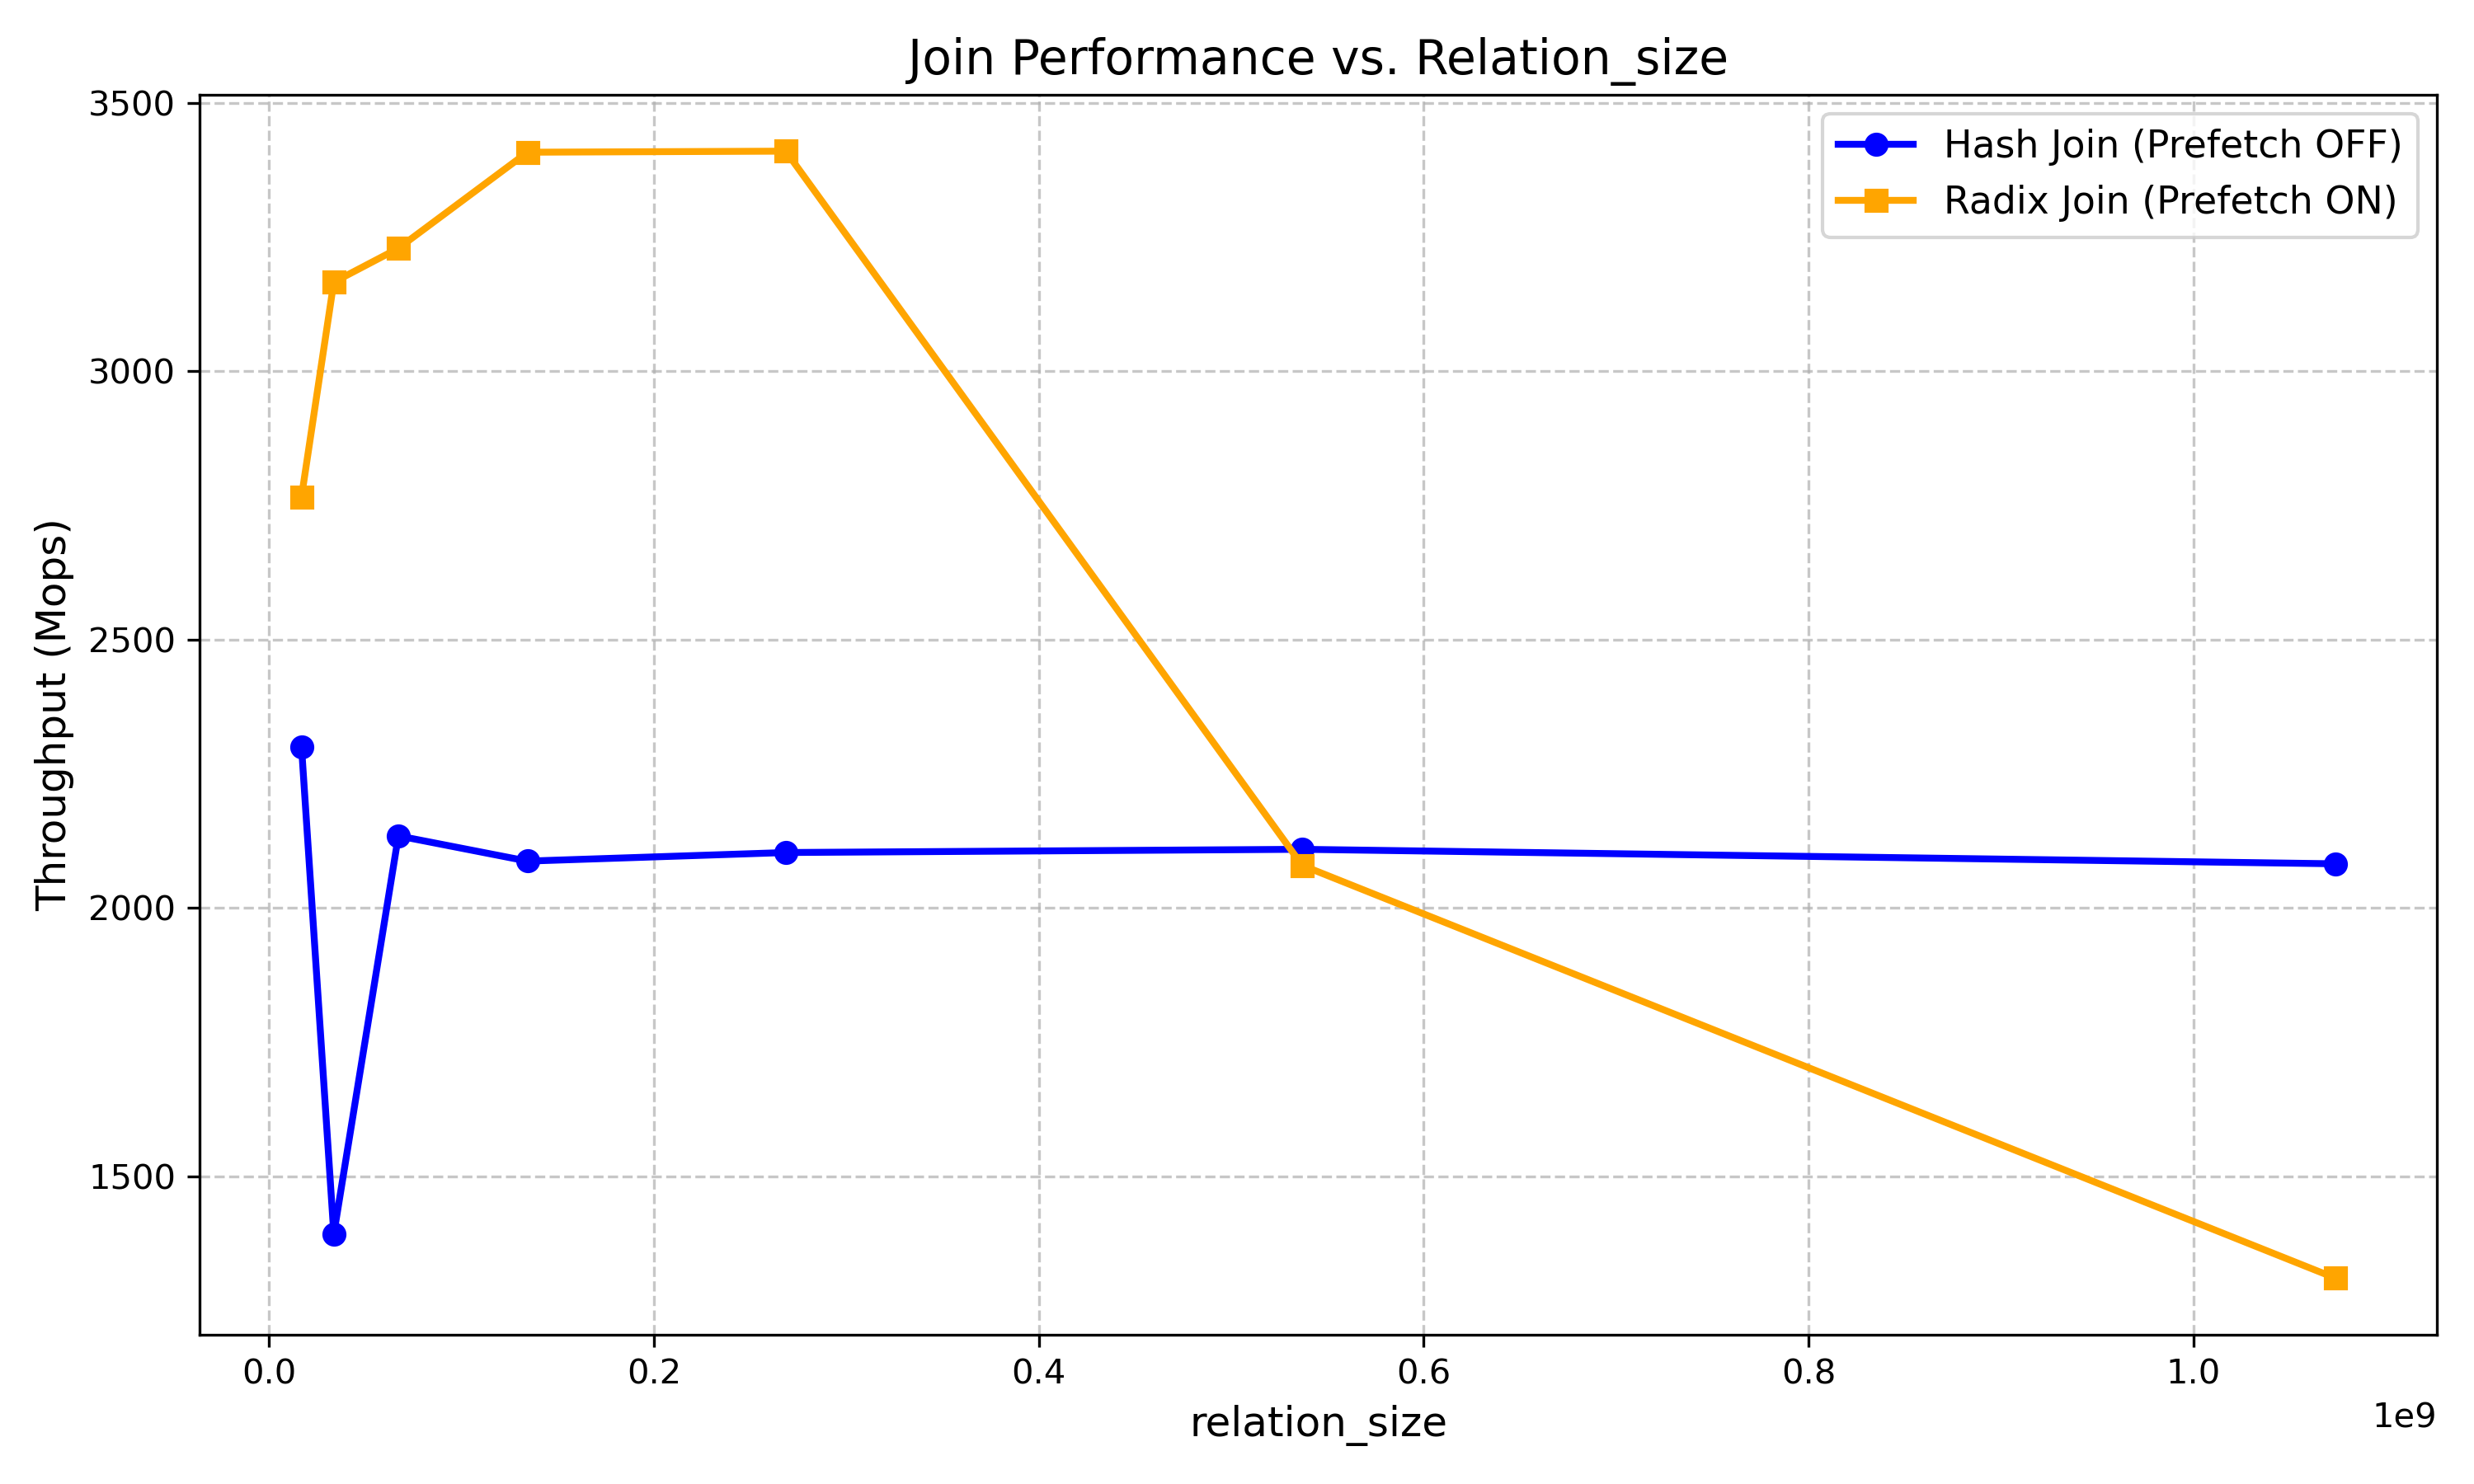
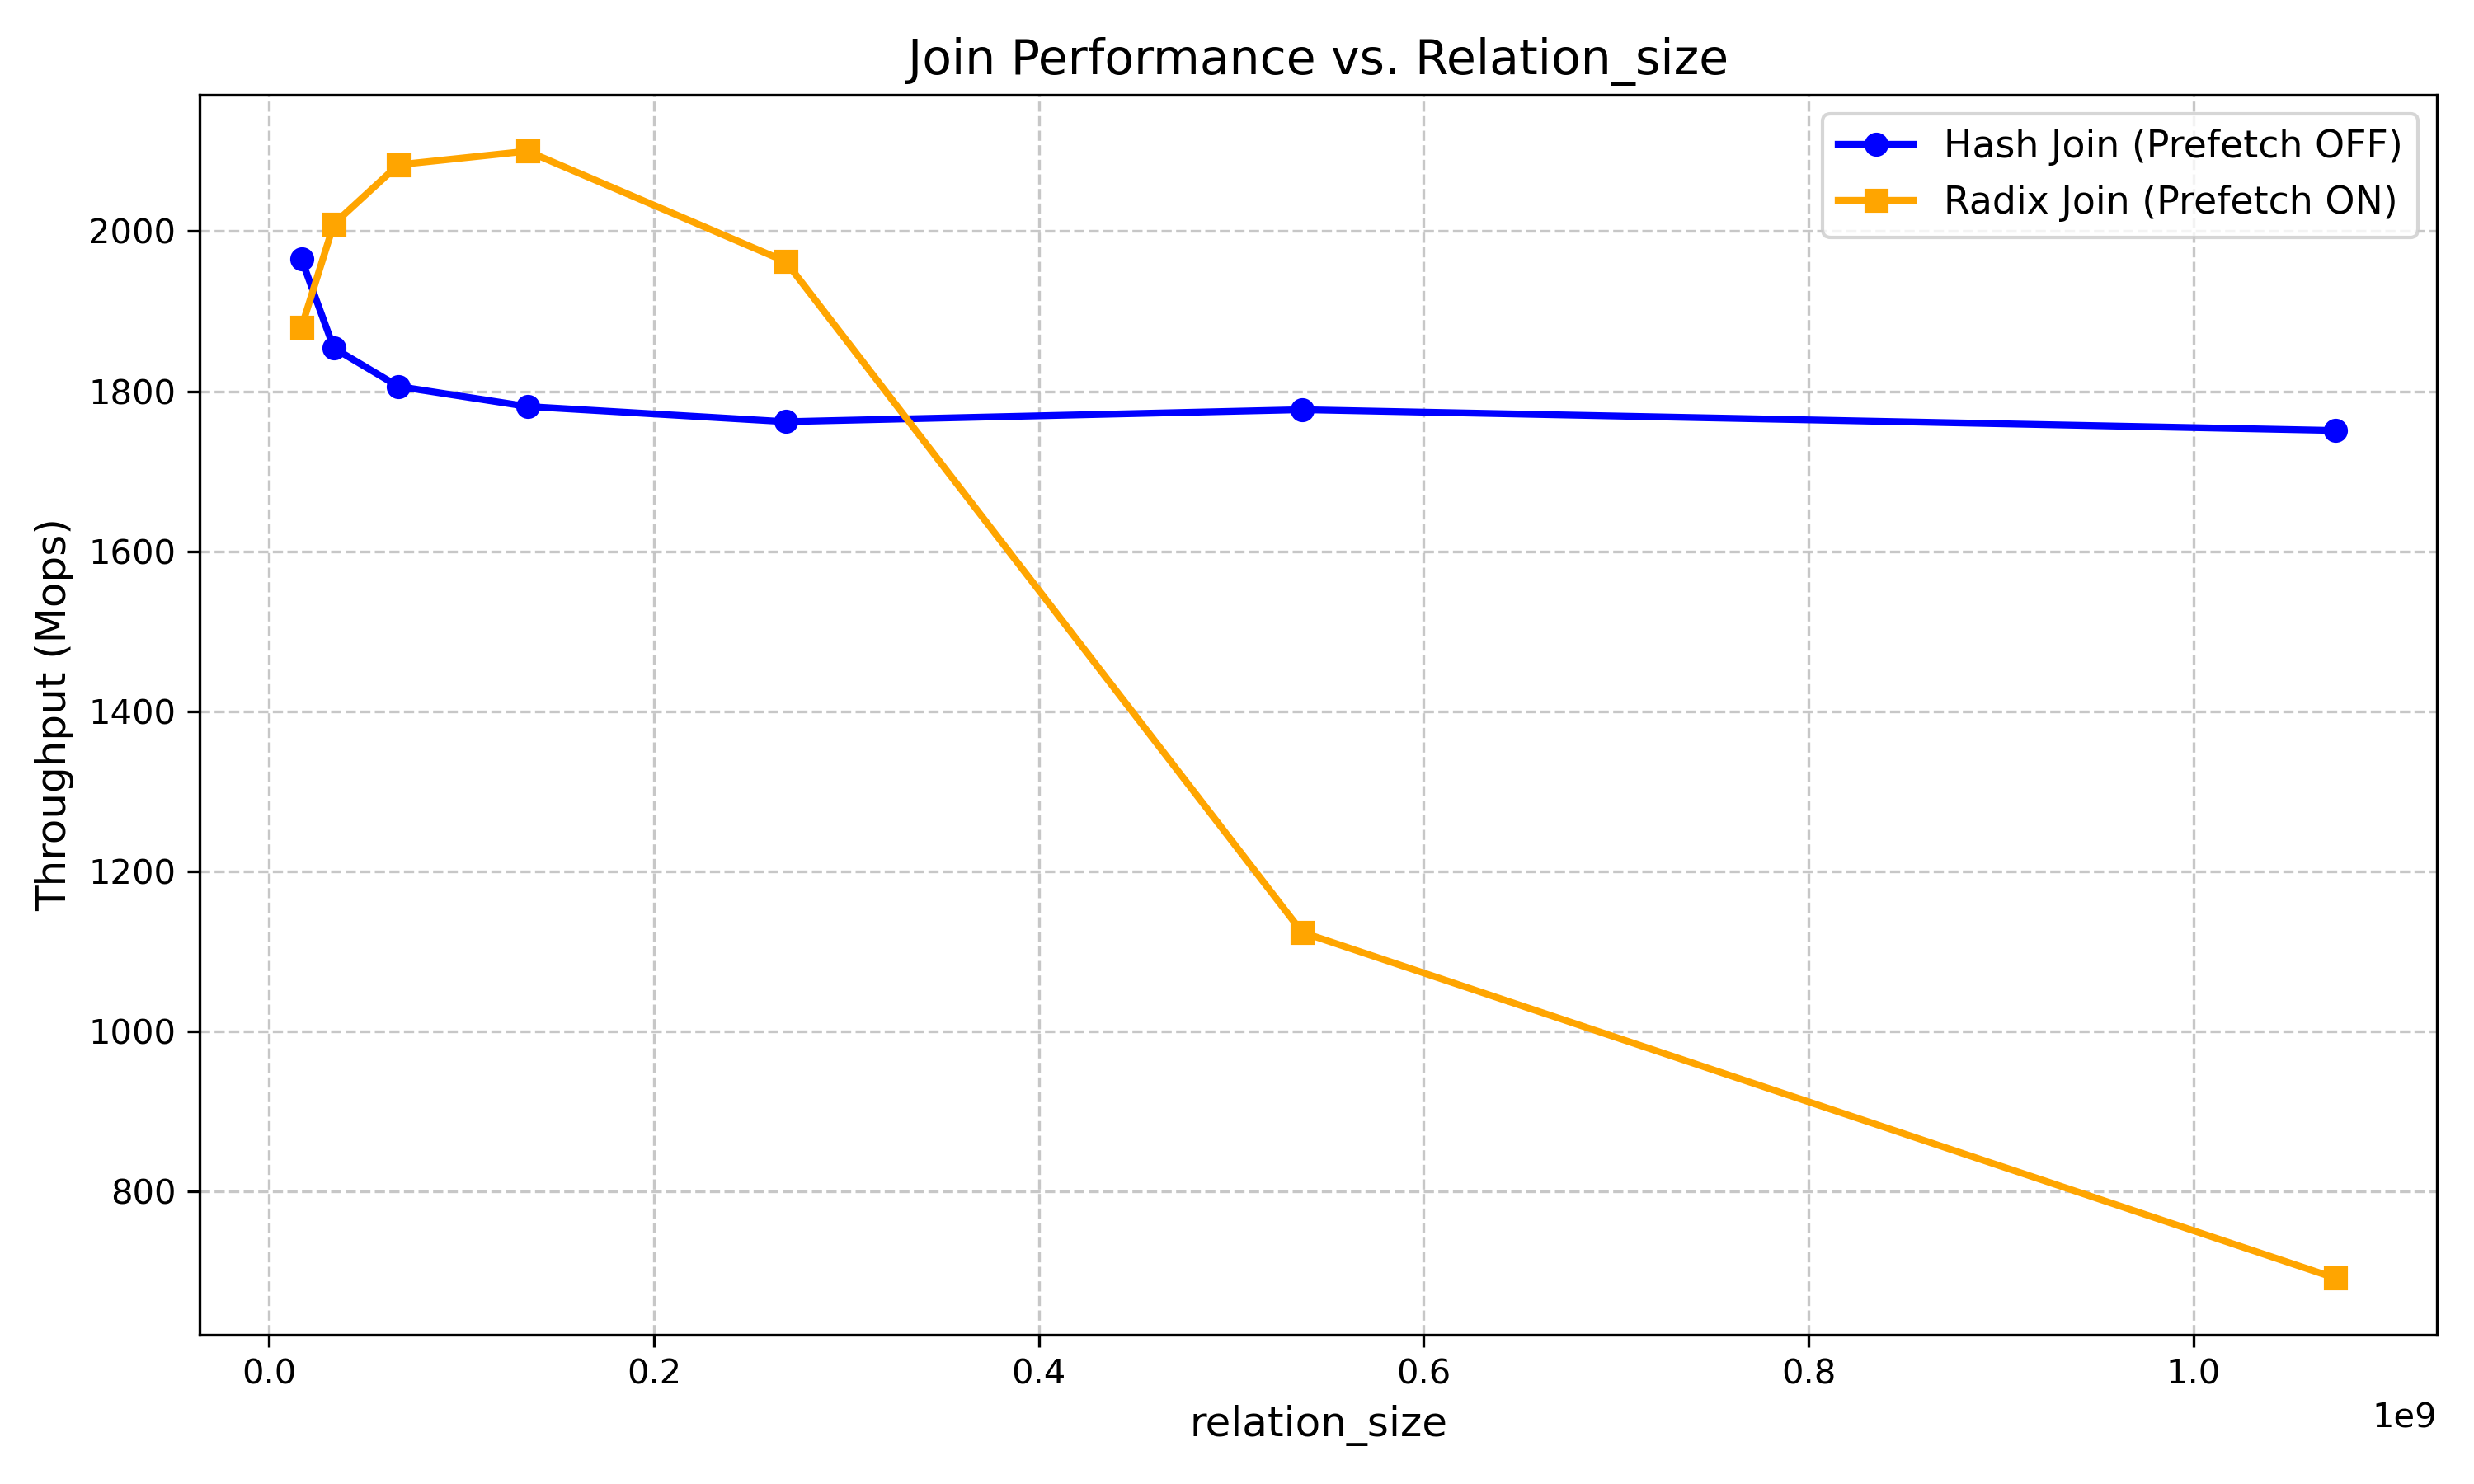
hashjoin data

diff --git a/scripts/eurosys_2026/collect_radix/collect_join_amd.py b/scripts/eurosys_2026/collect_radix/collect_join_amd.py
@@ -6,20 +6,28 @@ from unittest.loader import defaultTestLoader
 
 import matplotlib.pyplot as plt
 
-THREAD_NUM = 64
-L1_BYTES = int(1 * 1024 * 1024 / THREAD_NUM)
-L2_BYTES = 1 * 1024 * 1024
-L3_BYTES = int(256 * 1024 * 1024 / THREAD_NUM)
+L2_BYTES = 512 * 1024  # 0.5mb per hyperthread
+
+# single
+num_threads = 64
+numa = 4
+numa_name = "amd_single"
 
 
 # the goal here is reduce keep radix high enough to make each paritition size fit into l2
 # while keep radix low enough parition runtime doesn't blow up because partition must maintin
 # 2^radix amount of cachelines.
-def get_optimal_radix(build_sz):
-    radix = max(6, math.ceil(math.log(build_sz * 16 / L2_BYTES, 2)))
+def get_optimal_radix(build_sz, ht_fill):
 
-    if pow(2, radix) * 64 > L2_BYTES:
-        print("input size is too big, partition runtime must spill out")
+    # fit into l2.
+    optimal_join_size = L2_BYTES * ht_fill / 100
+    radix = max(6, math.ceil(math.log(build_sz * 16 / optimal_join_size, 2)))
+
+    # if build size is too large, then give a warning for partition.
+    if pow(2, radix) * 64 >= L2_BYTES:
+        print(
+            f"input size is too big, partition runtime will go up, build_sz {build_sz / (1024 * 1024)} MB radix {radix}"
+        )
 
     return radix
 
@@ -30,10 +38,10 @@ one_gb = int(1024 * 1024 * 1024 / 16)
 # CONFIGURATION
 # =============================================================================
 
+default_build_sz = one_gb
 # 1. Define the parameter to vary (X-axis)
 PARAM_NAME = "skew"
 PARAM_VALUES = [round(0.1 + i * 0.1, 1) for i in range(12)]
-default_build_sz = one_gb
 
 # --- Examples for exploring other directions ---
 
@@ -49,16 +57,6 @@ default_build_sz = one_gb
 #     16 * one_gb,
 # ]
 
-# PARAM_NAME = "relation_s_size"
-# default_build_sz = 256 * one_mb
-# PARAM_VALUES = [
-#     default_build_sz,  # ht fill 50%, 2x, 0.5 gb
-#     3 * default_build_sz,  # ht fill 25%, 4x, 1 gb
-#     7 * default_build_sz,  # ht fill 13%, 8x, 2gb
-#     15 * default_build_sz,  # ht fill 7%, 16x, 4gb
-#     31 * default_build_sz,  # ht fill 4%, 32x, 8gb
-#     63 * default_build_sz,  # ht fill 2%, 64x, 16gb
-# ]
 
 # Paths to the executables
 PREFETCH_SCRIPT = "/opt/DRAMHiT/scripts/prefetch_control_amd.sh"
@@ -71,8 +69,8 @@ HASH_JOIN_DEFAULTS = {
     "relation_r_size": default_build_sz,
     "relation_s_size": 15 * default_build_sz,
     "find_queue": 64,
-    "num-threads": 64,
-    "numa-split": 4,
+    "num-threads": num_threads,
+    "numa-split": numa,
     "no-prefetch": 0,
     "mode": 13,
     "batch-len": 16,
@@ -87,8 +85,8 @@ RADIX_JOIN_DEFAULTS = {
     "ht-fill": 50,
     "relation_r_size": default_build_sz,
     "relation_s_size": 15 * default_build_sz,
-    "num-threads": 64,
-    "numa-split": 4,
+    "num-threads": num_threads,
+    "numa-split": numa,
     "mode": 16,
     "skew": 0.01,
     "seed": 1774551337382868027,
@@ -114,19 +112,20 @@ def build_command(defaults_dict, param_name, param_value):
     if param_name == "relation_size":
         args["relation_r_size"] = param_value
         args["relation_s_size"] = param_value
-        args["radix"] = get_optimal_radix(args["relation_r_size"])
-    elif param_name == "relation_s_size":
-        args["relation_r_size"] = default_build_sz
-        args["relation_s_size"] = param_value
-        target_size = param_value + default_build_sz
-        ht_fill = math.ceil((default_build_sz * 100) / target_size)
-        args["ht-fill"] = ht_fill
-        args["radix"] = get_optimal_radix(args["relation_r_size"])
     else:
         args[param_name] = param_value  # Override the specific parameter being tested
-        args["radix"] = get_optimal_radix(args["relation_r_size"])
+
+    if args["mode"] == 13:
+        # hash join can use same space as used by radix join
+        build_sz = args["relation_r_size"]
+        probe_sz = args["relation_s_size"]
+        ht_fill = math.ceil((build_sz * 100) / (build_sz + probe_sz))
+        args["ht-fill"] = ht_fill
+    else:
+        args["radix"] = get_optimal_radix(args["relation_r_size"], args["ht-fill"])
 
     cmd = [DRAMHIT_EXEC]
+
     for key, val in args.items():
         cmd.extend([f"--{key}", str(val)])
     return cmd
@@ -160,6 +159,15 @@ def run_and_parse(cmd):
 def main():
     print(f"Starting Benchmark. Varying '--{PARAM_NAME}' across: {PARAM_VALUES}\n")
 
+    subprocess.run(
+        "cmake -S /opt/DRAMHiT/ -B /opt/DRAMHiT/build "
+        "-DDRAMHiT_VARIANT=2025_INLINE -DBUCKETIZATION=ON -DBRANCH=simd -DPREFETCH=DOUBLE -DUNIFORM_PROBING=ON "
+        "-DGROWT=ON",
+        shell=True,
+        check=True,
+    )
+    subprocess.run("cmake --build /opt/DRAMHiT/build", shell=True, check=True)
+
     results = {
         "param_name": PARAM_NAME,
         "param_values": PARAM_VALUES,
@@ -187,7 +195,7 @@ def main():
     # =========================================================================
     # SAVE DATA TO JSON
     # =========================================================================
-    json_filename = f"benchmark_results_{PARAM_NAME}.json"
+    json_filename = f"{numa_name}_{PARAM_NAME}.json"
     with open(json_filename, "w") as f:
         json.dump(results, f, indent=4)
     print(f"[*] Data saved to {json_filename}")
@@ -224,7 +232,7 @@ def main():
     plt.tight_layout()
 
     # Save to PNG
-    png_filename = f"benchmark_plot_{PARAM_NAME}.png"
+    png_filename = f"{numa_name}_{PARAM_NAME}.png"
     plt.savefig(png_filename, dpi=300)
     print(f"[*] Plot saved to {png_filename}")
 

diff --git a/scripts/eurosys_2026/collect_radix/collect_join_intel.py b/scripts/eurosys_2026/collect_radix/collect_join_intel.py
@@ -10,21 +10,20 @@ L2_BYTES = 1 * 1024 * 1024  # 1mb per hyperthread
 
 
 # single
-# num_threads = 64
-# numa = 4
-# numa_name = "intel_dual"
+num_threads = 64
+numa = 4
+numa_name = "intel_single"
 
 # dual socket
-num_threads = 128
-numa = 1
-numa_name = "intel_single"
+# num_threads = 128
+# numa = 1
+# numa_name = "intel_dual"
 
 
 # the goal here is reduce keep radix high enough to make each paritition size fit into l2
 # while keep radix low enough parition runtime doesn't blow up because partition must maintin
 # 2^radix amount of cachelines.
 def get_optimal_radix(build_sz, ht_fill):
-
     # fit into l2.
     optimal_join_size = L2_BYTES * ht_fill / 100
     radix = max(6, math.ceil(math.log(build_sz * 16 / optimal_join_size, 2)))
@@ -32,7 +31,7 @@ def get_optimal_radix(build_sz, ht_fill):
     # if build size is too large, then give a warning for partition.
     if pow(2, radix) * 64 >= L2_BYTES:
         print(
-            f"input size is too big, partition runtime must spill out, build_sz {build_sz / (1024 * 1024)} MB radix {radix}"
+            f"input size is too big, partition runtime will go up, build_sz {build_sz / (1024 * 1024)} MB radix {radix}"
         )
 
     return radix
@@ -49,8 +48,6 @@ default_build_sz = one_gb
 # PARAM_NAME = "skew"
 # PARAM_VALUES = [round(0.1 + i * 0.1, 1) for i in range(12)]
 
-# --- Examples for exploring other directions ---
-
 
 PARAM_NAME = "relation_size"
 PARAM_VALUES = [
@@ -62,17 +59,6 @@ PARAM_VALUES = [
     8 * one_gb,
     16 * one_gb,
 ]
-
-# PARAM_NAME = "relation_s_size"
-# default_build_sz = 256 * one_mb
-# PARAM_VALUES = [
-#     default_build_sz,  # ht fill 50%, 2x, 0.5 gb
-#     3 * default_build_sz,  # ht fill 25%, 4x, 1 gb
-#     7 * default_build_sz,  # ht fill 13%, 8x, 2gb
-#     15 * default_build_sz,  # ht fill 7%, 16x, 4gb
-#     31 * default_build_sz,  # ht fill 4%, 32x, 8gb
-#     63 * default_build_sz,  # ht fill 2%, 64x, 16gb
-# ]
 
 # Paths to the executables
 PREFETCH_SCRIPT = "/opt/DRAMHiT/scripts/prefetch_control.sh"
@@ -174,6 +160,15 @@ def run_and_parse(cmd):
 
 def main():
     print(f"Starting Benchmark. Varying '--{PARAM_NAME}' across: {PARAM_VALUES}\n")
+
+    subprocess.run(
+        "cmake -S /opt/DRAMHiT/ -B /opt/DRAMHiT/build "
+        "-DDRAMHiT_VARIANT=2025_INLINE -DBUCKETIZATION=ON -DBRANCH=simd -DPREFETCH=DOUBLE -DUNIFORM_PROBING=ON "
+        "-DGROWT=ON",
+        shell=True,
+        check=True,
+    )
+    subprocess.run("cmake --build /opt/DRAMHiT/build", shell=True, check=True)
 
     results = {
         "param_name": PARAM_NAME,

diff --git a/src/Application.cpp b/src/Application.cpp
@@ -78,8 +78,8 @@ const Configuration def = {
     .ht_type = 0,
     .ht_fill = 70,
     .ht_size = HT_TESTS_HT_SIZE,
-    .insert_factor = 0,
-    .read_factor = 0,
+    .insert_factor = 1,
+    .read_factor = 1,
     .insert_snapshot = 0,
     .read_snapshot = 0,
     .n_prod = 1,

diff --git a/include/utils/hugepage_allocator.hpp b/include/utils/hugepage_allocator.hpp
@@ -38,7 +38,8 @@ struct huge_page_allocator {
     auto is_1gb = false;
     uint64_t alloc_sz = 0;
 
-    if (raw_alloc_sz > (huge_page_size_2mb * 100)) {
+    // a lot of 2mb hugepages can be consumed.
+    if (raw_alloc_sz > (huge_page_size_2mb * 500)) {
       is_1gb = true;
       alloc_sz = round_to_huge_page_size(raw_alloc_sz, is_1gb);
     } else {